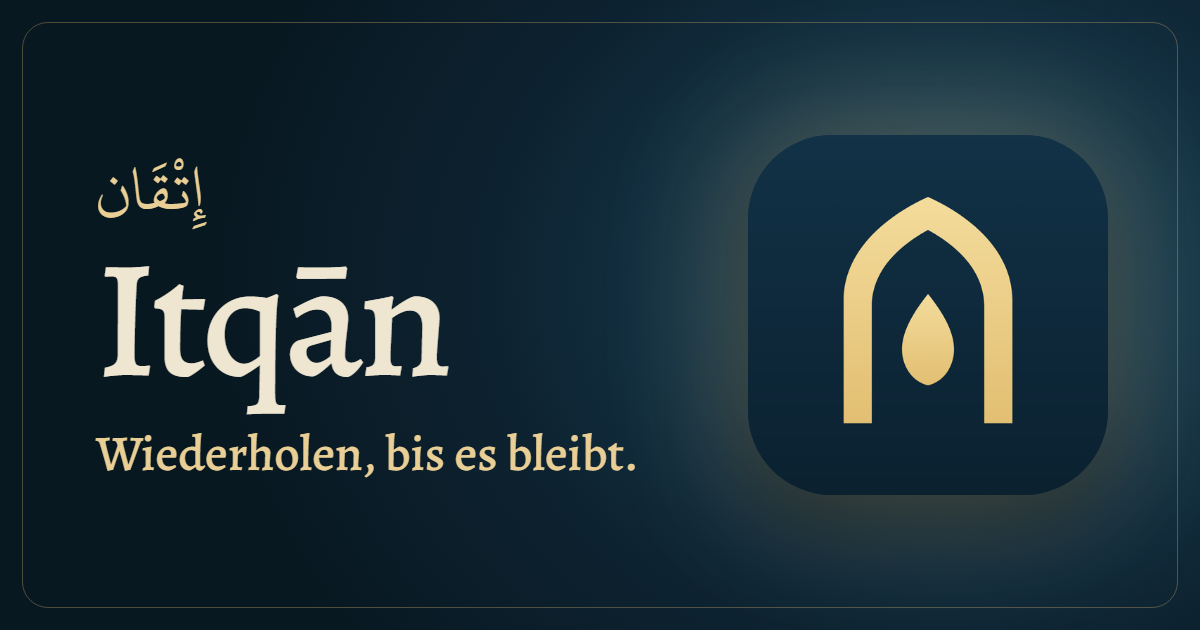
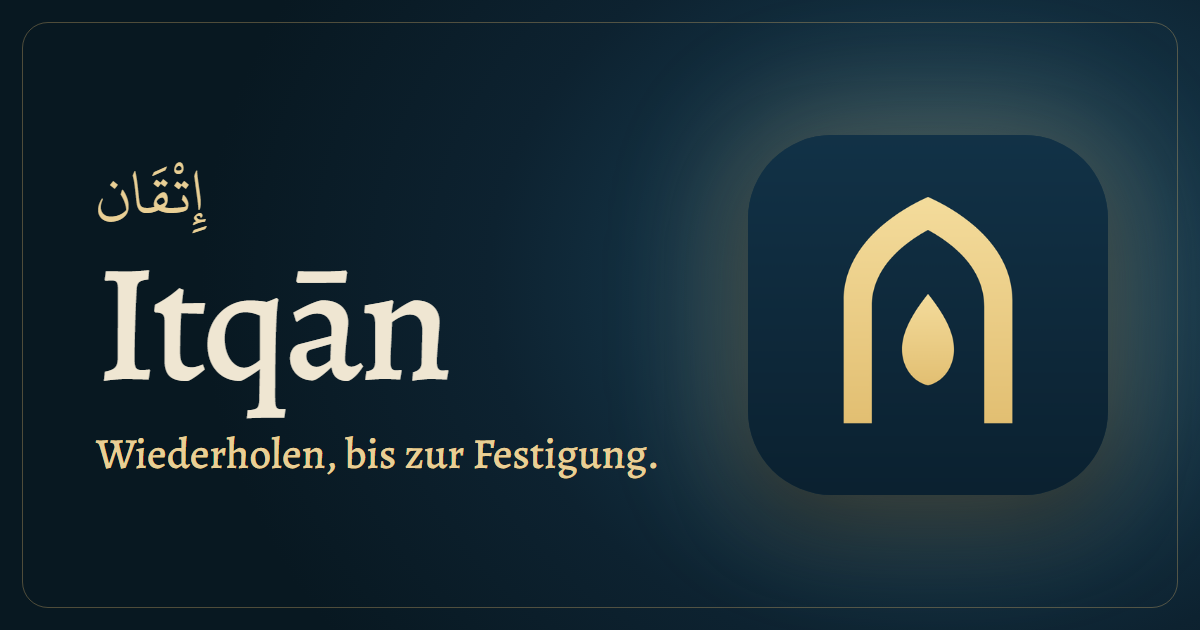
Website Lektorat: neue Texte (Titel, Hauptueberschrift, Tagesplan, Starten, Werkzeuge, Lernende weltweit, Schlusszeile, Wiederholungskreislauf), Teilen-Bild angepasst

diff --git a/index.html b/index.html
@@ -3,11 +3,11 @@
 <head>
 <meta charset="utf-8">
 <meta name="viewport" content="width=device-width,initial-scale=1,viewport-fit=cover">
-<title>Itqān: Qurʾān wiederholen, bis es bleibt</title>
+<title>Itqān: Qurʾān wiederholen, bis zur Festigung</title>
 <meta name="description" content="Itqān ist die App für die Murāǧaʿa, das regelmäßige Wiederholen des ganzen Qurʾān. Sie plant deine Wiederholung, zeigt dir, wo es hakt, und hilft dir, Gelerntes dauerhaft zu festigen. Kostenlos und ohne Werbung.">
 <link rel="canonical" href="https://itqan.at/">
 <link rel="alternate" hreflang="de" href="https://itqan.at/"><link rel="alternate" hreflang="en" href="https://itqan.at/en/"><link rel="alternate" hreflang="x-default" href="https://itqan.at/">
-<meta property="og:type" content="website"><meta property="og:title" content="Itqān: Qurʾān wiederholen, bis es bleibt"><meta property="og:description" content="Itqān ist die App für die Murāǧaʿa, das regelmäßige Wiederholen des ganzen Qurʾān. Sie plant deine Wiederholung, zeigt dir, wo es hakt, und hilft dir, Gelerntes dauerhaft zu festigen. Kostenlos und ohne Werbung."><meta property="og:url" content="https://itqan.at/"><meta property="og:image" content="https://itqan.at/img/og.png"><meta property="og:image:alt" content="Itqān: Qurʾān wiederholen, bis es bleibt">
+<meta property="og:type" content="website"><meta property="og:title" content="Itqān: Qurʾān wiederholen, bis zur Festigung"><meta property="og:description" content="Itqān ist die App für die Murāǧaʿa, das regelmäßige Wiederholen des ganzen Qurʾān. Sie plant deine Wiederholung, zeigt dir, wo es hakt, und hilft dir, Gelerntes dauerhaft zu festigen. Kostenlos und ohne Werbung."><meta property="og:url" content="https://itqan.at/"><meta property="og:image" content="https://itqan.at/img/og.png"><meta property="og:image:alt" content="Itqān: Qurʾān wiederholen, bis zur Festigung">
 <meta name="twitter:card" content="summary_large_image">
 <meta name="theme-color" content="#f3e8d2" media="(prefers-color-scheme: light)"><meta name="theme-color" content="#0d2230" media="(prefers-color-scheme: dark)">
 <link rel="icon" href="icons/favicon-32.png" sizes="32x32"><link rel="apple-touch-icon" href="icons/apple-touch-icon.png">
@@ -25,7 +25,7 @@
 <a class="skip" href="#inhalt">Zum Inhalt springen</a>
 <header class="kopf"><div class="wrap">
   <a class="logo" href="#top" aria-label="Itqān"><img src="icons/icon-192.png" width="34" height="34" alt="">Itqān</a>
-  <nav class="menue" aria-label="Hauptmenü"><a href="#tag">Dein Tag</a><a href="#methode">Methode</a><a href="#karte">Lichtkarte</a><a href="#mushaf">Muṣḥaf</a><a href="#sprachen">Sprachen</a></nav>
+  <nav class="menue" aria-label="Hauptmenü"><a href="#tag">Dein Tagesplan</a><a href="#methode">Methode</a><a href="#karte">Lichtkarte</a><a href="#mushaf">Muṣḥaf</a><a href="#sprachen">Sprachen</a></nav>
   <div class="werkz">
     <a class="spr-knopf" href="en/" hreflang="en" lang="en" aria-label="EN">EN</a>
     <button class="ico-knopf" id="thema" type="button" aria-label="Hell oder dunkel wechseln"><svg class="mond" aria-hidden="true"><use href="#mond"/></svg><svg class="sonne" aria-hidden="true"><use href="#sonne"/></svg></button>
@@ -40,9 +40,9 @@
     <div class="held-text">
       <div class="titel-rahmen"><p class="ar-titel ar" lang="ar">إِتْقَان</p><svg class="titel-zier" viewBox="0 0 150 12" aria-hidden="true"><defs><linearGradient id="zl" gradientUnits="userSpaceOnUse" x1="16" y1="0" x2="150" y2="0"><stop offset="0" stop-color="currentColor" stop-opacity=".85"/><stop offset="1" stop-color="currentColor" stop-opacity="0"/></linearGradient></defs><path d="M16 6H150" stroke="url(#zl)" stroke-width="1" fill="none"/><path transform="translate(6 6) scale(.14) translate(-45 -45)" fill="currentColor" d="M45 7L54 27L74 18L65 38L83 45L65 52L74 72L54 63L45 83L36 63L16 72L25 52L7 45L25 38L16 18L36 27Z"/></svg></div>
       <p class="ar-unter">al-Itqān: etwas meisterhaft beherrschen</p>
-      <h1>Wiederholen,<br>bis es bleibt.</h1>
+      <h1>Wiederholen,<br>bis zur Festigung.</h1>
       <p class="lead">Itqān hilft dir, zu behalten, was du vom Qurʾān auswendig kannst. Die App plant deine tägliche Wiederholung, die Murāǧaʿa, zeigt dir, wo es hakt, und begleitet dich, bis es sicher sitzt.</p>
-      <div class="cta"><a class="knopf haupt" href="https://ali-seckin.github.io/itqan/">Im Browser öffnen</a><a class="knopf leer" href="#tag" aria-disabled="false">Dein Tag</a></div>
+      <div class="cta"><a class="knopf haupt" href="https://ali-seckin.github.io/itqan/">Im Browser öffnen</a><a class="knopf leer" href="#tag" aria-disabled="false">Dein Tagesplan</a></div>
       <p class="held-note">Bald im App Store und bei Google Play. Kostenlos. Ohne Werbung. In sieben Sprachen.</p>
     </div>
     <div class="buehne">
@@ -73,7 +73,7 @@
 <section id="tag" class="tag">
   <div class="tag-szene"><div class="tag-buehne">
     <div class="wrap kopfblock"><h2 class="rv">Ein Tag mit Itqān</h2><p class="lead rv" style="--d:.1s">In wenigen Schritten täglich üben</p></div>
-    <div class="tag-bahn"><article class="schritt"><div><figure class="phone"><div class="rahmen"><div class="bild"><img class="t-hell" src="img/heute-hell.webp" alt="Heute: der Plan des Tages" width="780" height="1688" loading="lazy" decoding="async"><img class="t-dunkel" src="img/heute-dunkel.webp" alt="Heute: der Plan des Tages" width="780" height="1688" loading="lazy" decoding="async"></div></div></figure></div><div><span class="nr" aria-hidden="true">١</span><h3>Ankommen</h3><p class="leise">Unter „Heute“ siehst du, was dran ist: deinen Wird, also die fälligen Wiederholungen, und was du neu lernst. Dein Tagespensum legst du selbst fest, auf Wunsch je Wochentag.</p></div></article><article class="schritt"><div><figure class="phone"><div class="rahmen"><div class="bild"><img class="t-hell" src="img/ueben-hell.webp" alt="Üben: die Seite mit verdecktem Text" width="780" height="1688" loading="lazy" decoding="async"><img class="t-dunkel" src="img/ueben-dunkel.webp" alt="Üben: die Seite mit verdecktem Text" width="780" height="1688" loading="lazy" decoding="async"></div></div></figure></div><div><span class="nr" aria-hidden="true">٢</span><h3>Aufsagen</h3><p class="leise">Du siehst die Seite wie im Muṣḥaf, nur mit verdecktem Text, und rezitierst aus dem Gedächtnis. Steckst du fest, hilft dir „Erstes Wort“, oder du siehst dir den Abschnitt vorher an.</p></div></article><article class="schritt"><div><figure class="phone"><div class="rahmen"><div class="bild"><img class="t-hell" src="img/ueben_offen-hell.webp" alt="Prüfen: der Vers ist aufgedeckt, darunter Fehler, Gezögert und Richtig" width="780" height="1688" loading="lazy" decoding="async"><img class="t-dunkel" src="img/ueben_offen-dunkel.webp" alt="Prüfen: der Vers ist aufgedeckt, darunter Fehler, Gezögert und Richtig" width="780" height="1688" loading="lazy" decoding="async"></div></div></figure></div><div><span class="nr" aria-hidden="true">٣</span><h3>Prüfen</h3><p class="leise">Dann deckst du auf und bewertest dich Vers für Vers: Richtig, Gezögert oder Fehler. Je ehrlicher du bewertest, desto besser passen deine Wiederholungen zu dir.</p></div></article><article class="schritt"><div><figure class="phone"><div class="rahmen"><div class="bild"><img class="t-hell" src="img/fertig-hell.webp" alt="Abschluss eines Abschnitts mit Ergebnis" width="780" height="1688" loading="lazy" decoding="async"><img class="t-dunkel" src="img/fertig-dunkel.webp" alt="Abschluss eines Abschnitts mit Ergebnis" width="780" height="1688" loading="lazy" decoding="async"></div></div></figure></div><div><span class="nr" aria-hidden="true">٤</span><h3>Abschließen</h3><p class="leise">Itqān-Punkte, deine Kette erfüllter Tage und die Ḥasanāt, gezählt nach rezitierten Buchstaben, zeigen, dass du dranbleibst. Wer mag, blendet die Ḥasanāt aus.</p></div></article></div>
+    <div class="tag-bahn"><article class="schritt"><div><figure class="phone"><div class="rahmen"><div class="bild"><img class="t-hell" src="img/heute-hell.webp" alt="Heute: der Plan des Tages" width="780" height="1688" loading="lazy" decoding="async"><img class="t-dunkel" src="img/heute-dunkel.webp" alt="Heute: der Plan des Tages" width="780" height="1688" loading="lazy" decoding="async"></div></div></figure></div><div><span class="nr" aria-hidden="true">١</span><h3>Starten</h3><p class="leise">Unter „Heute“ siehst du, was dran ist: deinen Wird, also die fälligen Wiederholungen, und was du neu lernst. Dein Tagespensum legst du selbst fest, auf Wunsch je Wochentag.</p></div></article><article class="schritt"><div><figure class="phone"><div class="rahmen"><div class="bild"><img class="t-hell" src="img/ueben-hell.webp" alt="Üben: die Seite mit verdecktem Text" width="780" height="1688" loading="lazy" decoding="async"><img class="t-dunkel" src="img/ueben-dunkel.webp" alt="Üben: die Seite mit verdecktem Text" width="780" height="1688" loading="lazy" decoding="async"></div></div></figure></div><div><span class="nr" aria-hidden="true">٢</span><h3>Aufsagen</h3><p class="leise">Du siehst die Seite wie im Muṣḥaf, nur mit verdecktem Text, und rezitierst aus dem Gedächtnis. Steckst du fest, hilft dir „Erstes Wort“, oder du siehst dir den Abschnitt vorher an.</p></div></article><article class="schritt"><div><figure class="phone"><div class="rahmen"><div class="bild"><img class="t-hell" src="img/ueben_offen-hell.webp" alt="Prüfen: der Vers ist aufgedeckt, darunter Fehler, Gezögert und Richtig" width="780" height="1688" loading="lazy" decoding="async"><img class="t-dunkel" src="img/ueben_offen-dunkel.webp" alt="Prüfen: der Vers ist aufgedeckt, darunter Fehler, Gezögert und Richtig" width="780" height="1688" loading="lazy" decoding="async"></div></div></figure></div><div><span class="nr" aria-hidden="true">٣</span><h3>Prüfen</h3><p class="leise">Dann deckst du auf und bewertest dich Vers für Vers: Richtig, Gezögert oder Fehler. Je ehrlicher du bewertest, desto besser passen deine Wiederholungen zu dir.</p></div></article><article class="schritt"><div><figure class="phone"><div class="rahmen"><div class="bild"><img class="t-hell" src="img/fertig-hell.webp" alt="Abschluss eines Abschnitts mit Ergebnis" width="780" height="1688" loading="lazy" decoding="async"><img class="t-dunkel" src="img/fertig-dunkel.webp" alt="Abschluss eines Abschnitts mit Ergebnis" width="780" height="1688" loading="lazy" decoding="async"></div></div></figure></div><div><span class="nr" aria-hidden="true">٤</span><h3>Abschließen</h3><p class="leise">Itqān-Punkte, deine Kette erfüllter Tage und die Ḥasanāt, gezählt nach rezitierten Buchstaben, zeigen, dass du dranbleibst. Wer mag, blendet die Ḥasanāt aus.</p></div></article></div>
     <div class="tag-fuss" aria-hidden="true"><i></i></div>
   </div></div>
 </section>
@@ -130,8 +130,8 @@
 
 <section id="werkzeuge" class="abschnitt" style="padding-top:calc(var(--abschnitt)*.3)"><div class="wrap">
   <div class="werk-grid">
-    <div><h2 class="rv">Werkzeuge, wenn du genauer hinschauen willst</h2><p class="lead rv" style="--d:.1s;margin-top:20px">Nichts davon musst du benutzen. Alles ist da, wenn du es brauchst.</p>
-      <div class="reiter" role="tablist" aria-orientation="vertical"><button type="button" role="tab" aria-selected="false"><b>Auswertung</b><p>Wie sicher du bist und wo es noch hakt: deine Quote Woche für Woche, deine Fehlerarten und die Sūren, in denen sie vorkommen.</p></button><button type="button" role="tab" aria-selected="false"><b>Ähnliche Stellen</b><p>300 Gruppen ähnlicher Verse zum Nachschlagen und Vergleichen. Wo sich der Wortlaut unterscheidet, ist er farbig unterlegt.</p></button><button type="button" role="tab" aria-selected="false"><b>Fehlerstellen</b><p>Alle markierten Stellen auf einen Blick. Du übst sie einzeln, bis sie sitzen.</p></button><button type="button" role="tab" aria-selected="false"><b>Neu lernen</b><p>Du legst einen Abschnitt oder eine ganze Sūra in deinen Lernplan und übst ihn an drei Tagen: aufnehmen, absichern, meistern. Danach geht er in deine Wiederholung.</p></button><button type="button" role="tab" aria-selected="false"><b>Rückblick</b><p>Deine Woche oder dein Monat als Bild, zum Aufheben und Teilen.</p></button></div></div>
+    <div><h2 class="rv">Werkzeuge für den genauen Überblick</h2><p class="lead rv" style="--d:.1s;margin-top:20px">Nichts davon musst du benutzen. Alles ist da, wenn du es brauchst.</p>
+      <div class="reiter" role="tablist" aria-orientation="vertical"><button type="button" role="tab" aria-selected="false"><b>Auswertung</b><p>Wie sicher du bist und wo es noch hakt: deine Quote Woche für Woche, deine Fehlerarten und die Sūren, in denen sie vorkommen.</p></button><button type="button" role="tab" aria-selected="false"><b>Ähnliche Stellen</b><p>300 Gruppen ähnlicher Verse zum Nachschlagen und Vergleichen. Wo sich der Wortlaut unterscheidet, ist er farbig unterlegt.</p></button><button type="button" role="tab" aria-selected="false"><b>Fehlerstellen</b><p>Alle markierten Stellen auf einen Blick. Du übst sie einzeln, bis sie sitzen.</p></button><button type="button" role="tab" aria-selected="false"><b>Neu lernen</b><p>Du legst einen Abschnitt oder eine ganze Sūra in deinen Lernplan und übst ihn an drei Tagen: aufnehmen, absichern, meistern. Danach geht er in deinen Wiederholungskreislauf.</p></button><button type="button" role="tab" aria-selected="false"><b>Rückblick</b><p>Deine Woche oder dein Monat als Bild, zum Aufheben und Teilen.</p></button></div></div>
     <div class="werk-phone"><figure class="phone "><div class="rahmen"><div class="bild"><img class="t-hell lage an" src="img/auswertung-hell.webp" alt="Auswertung" width="780" height="1688" loading="lazy" decoding="async" data-i="0"><img class="t-dunkel lage an" src="img/auswertung-dunkel.webp" alt="Auswertung" width="780" height="1688" loading="lazy" decoding="async" data-i="0"><img class="t-hell lage" src="img/aehnlich-hell.webp" alt="Ähnliche Stellen" width="780" height="1688" loading="lazy" decoding="async" data-i="1"><img class="t-dunkel lage" src="img/aehnlich-dunkel.webp" alt="Ähnliche Stellen" width="780" height="1688" loading="lazy" decoding="async" data-i="1"><img class="t-hell lage" src="img/fehlerstellen-hell.webp" alt="Fehlerstellen" width="780" height="1688" loading="lazy" decoding="async" data-i="2"><img class="t-dunkel lage" src="img/fehlerstellen-dunkel.webp" alt="Fehlerstellen" width="780" height="1688" loading="lazy" decoding="async" data-i="2"><img class="t-hell lage" src="img/lernen-hell.webp" alt="Neu lernen: einen Abschnitt oder eine ganze Sūra zum Lernplan hinzufügen und die Zahl pro Tag wählen" width="780" height="1688" loading="lazy" decoding="async" data-i="3"><img class="t-dunkel lage" src="img/lernen-dunkel.webp" alt="Neu lernen: einen Abschnitt oder eine ganze Sūra zum Lernplan hinzufügen und die Zahl pro Tag wählen" width="780" height="1688" loading="lazy" decoding="async" data-i="3"><img class="t-hell lage" src="img/rueckblick-hell.webp" alt="Rückblick" width="780" height="1688" loading="lazy" decoding="async" data-i="4"><img class="t-dunkel lage" src="img/rueckblick-dunkel.webp" alt="Rückblick" width="780" height="1688" loading="lazy" decoding="async" data-i="4"></div></div></figure></div>
   </div>
 </div></section>
@@ -139,7 +139,7 @@
 <section id="sprachen" class="abschnitt spr"><div class="wrap">
   <div class="spr-gitter">
     <figure class="phone "><div class="rahmen"><div class="bild"><img class="t-hell lage an" src="img/heute_de-hell.webp" alt="Die Ansicht Heute auf Deutsch" width="780" height="1688" loading="lazy" decoding="async" data-i="0"><img class="t-dunkel lage an" src="img/heute_de-dunkel.webp" alt="Die Ansicht Heute auf Deutsch" width="780" height="1688" loading="lazy" decoding="async" data-i="0"><img class="t-hell lage" src="img/heute_en-hell.webp" alt="Die Ansicht Heute auf English" width="780" height="1688" loading="lazy" decoding="async" data-i="1"><img class="t-dunkel lage" src="img/heute_en-dunkel.webp" alt="Die Ansicht Heute auf English" width="780" height="1688" loading="lazy" decoding="async" data-i="1"><img class="t-hell lage" src="img/heute_tr-hell.webp" alt="Die Ansicht Heute auf Türkçe" width="780" height="1688" loading="lazy" decoding="async" data-i="2"><img class="t-dunkel lage" src="img/heute_tr-dunkel.webp" alt="Die Ansicht Heute auf Türkçe" width="780" height="1688" loading="lazy" decoding="async" data-i="2"><img class="t-hell lage" src="img/heute_ar-hell.webp" alt="Die Ansicht Heute auf العربية" width="780" height="1688" loading="lazy" decoding="async" data-i="3"><img class="t-dunkel lage" src="img/heute_ar-dunkel.webp" alt="Die Ansicht Heute auf العربية" width="780" height="1688" loading="lazy" decoding="async" data-i="3"><img class="t-hell lage" src="img/heute_fr-hell.webp" alt="Die Ansicht Heute auf Français" width="780" height="1688" loading="lazy" decoding="async" data-i="4"><img class="t-dunkel lage" src="img/heute_fr-dunkel.webp" alt="Die Ansicht Heute auf Français" width="780" height="1688" loading="lazy" decoding="async" data-i="4"><img class="t-hell lage" src="img/heute_es-hell.webp" alt="Die Ansicht Heute auf Español" width="780" height="1688" loading="lazy" decoding="async" data-i="5"><img class="t-dunkel lage" src="img/heute_es-dunkel.webp" alt="Die Ansicht Heute auf Español" width="780" height="1688" loading="lazy" decoding="async" data-i="5"><img class="t-hell lage" src="img/heute_ur-hell.webp" alt="Die Ansicht Heute auf اردو" width="780" height="1688" loading="lazy" decoding="async" data-i="6"><img class="t-dunkel lage" src="img/heute_ur-dunkel.webp" alt="Die Ansicht Heute auf اردو" width="780" height="1688" loading="lazy" decoding="async" data-i="6"></div></div></figure>
-    <div><h2 class="rv">Für Lernende überall</h2><p class="lead rv" style="--d:.1s;margin-top:20px">Itqān gibt es in sieben Sprachen, auf Arabisch und Urdu von rechts nach links. Die ganze App passt sich an: Texte, Datum, Zahlen und die Namen der Sūren. Beim Antippen einer Āya erscheint auf Wunsch ihre Übersetzung, in sechs Sprachen.</p>
+    <div><h2 class="rv">Für Lernende weltweit</h2><p class="lead rv" style="--d:.1s;margin-top:20px">Itqān gibt es in sieben Sprachen, auf Arabisch und Urdu von rechts nach links. Die ganze App passt sich an: Texte, Datum, Zahlen und die Namen der Sūren. Beim Antippen einer Āya erscheint auf Wunsch ihre Übersetzung, in sechs Sprachen.</p>
       <div class="sprachen" role="group" aria-label="Sprache der Vorschau wählen"><button type="button" aria-pressed="false" lang="de">Deutsch</button><button type="button" aria-pressed="false" lang="en">English</button><button type="button" aria-pressed="false" lang="tr">Türkçe</button><button type="button" aria-pressed="false" lang="ar" dir=rtl>العربية</button><button type="button" aria-pressed="false" lang="fr">Français</button><button type="button" aria-pressed="false" lang="es">Español</button><button type="button" aria-pressed="false" lang="ur" dir=rtl>اردو</button></div></div>
   </div>
 </div></section>
@@ -154,7 +154,7 @@
 <section class="schluss"><div class="wrap">
   <p class="ar" lang="ar" aria-hidden="true">إِتْقَان</p>
   <h2 class="rv">Heute einen Abschnitt.</h2>
-  <p class="rv" style="--d:.1s">Mehr braucht es nicht, um anzufangen.</p>
+  <p class="rv" style="--d:.1s">Mehr braucht es nicht, um anzufangen. Wichtig ist, nicht aufzuhören.</p>
   <div class="cta rv" style="--d:.2s"><a class="knopf haupt" href="https://ali-seckin.github.io/itqan/">Im Browser öffnen</a></div>
   <p class="rv klein" style="--d:.3s">Bald im App Store und bei Google Play</p>
 </div></section>
